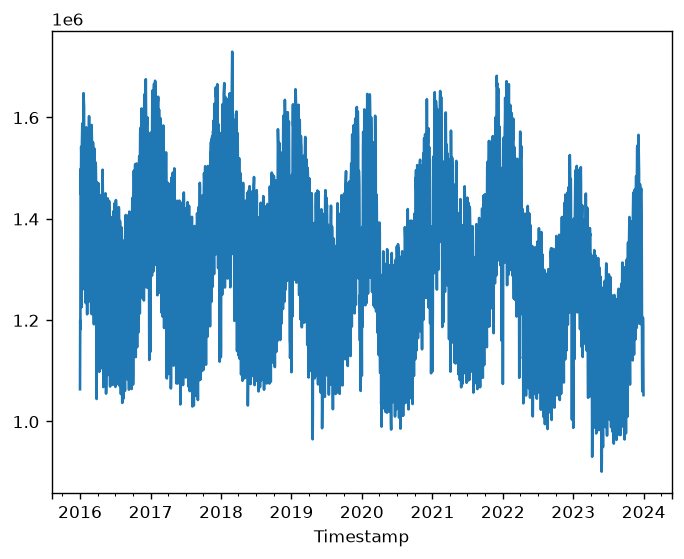
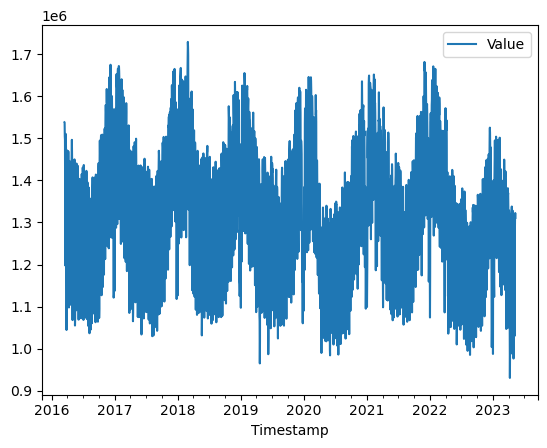
README updated for the bugfix

Changed region(s): [[0.0, 0.0312, 0.9945, 1.0], [0.2797, 0.4688, 0.3729, 0.6562]]

diff --git a/readme.md b/readme.md
@@ -76,28 +76,28 @@ smard.data.head()
   <tbody>
     <tr>
       <th>0</th>
-      <td>2016-01-01 00:00:00+01:00</td>
-      <td>1063470.42</td>
+      <td>2016-03-15 00:00:00+01:00</td>
+      <td>1538388.37</td>
     </tr>
     <tr>
       <th>1</th>
-      <td>2016-01-02 00:00:00+01:00</td>
-      <td>1198901.79</td>
+      <td>2016-03-16 00:00:00+01:00</td>
+      <td>1537748.85</td>
     </tr>
     <tr>
       <th>2</th>
-      <td>2016-01-03 00:00:00+01:00</td>
-      <td>1181825.57</td>
+      <td>2016-03-17 00:00:00+01:00</td>
+      <td>1504403.45</td>
     </tr>
     <tr>
       <th>3</th>
-      <td>2016-01-04 00:00:00+01:00</td>
-      <td>1445246.36</td>
+      <td>2016-03-18 00:00:00+01:00</td>
+      <td>1496937.83</td>
     </tr>
     <tr>
       <th>4</th>
-      <td>2016-01-05 00:00:00+01:00</td>
-      <td>1498693.79</td>
+      <td>2016-03-19 00:00:00+01:00</td>
+      <td>1293671.77</td>
     </tr>
   </tbody>
 </table>
